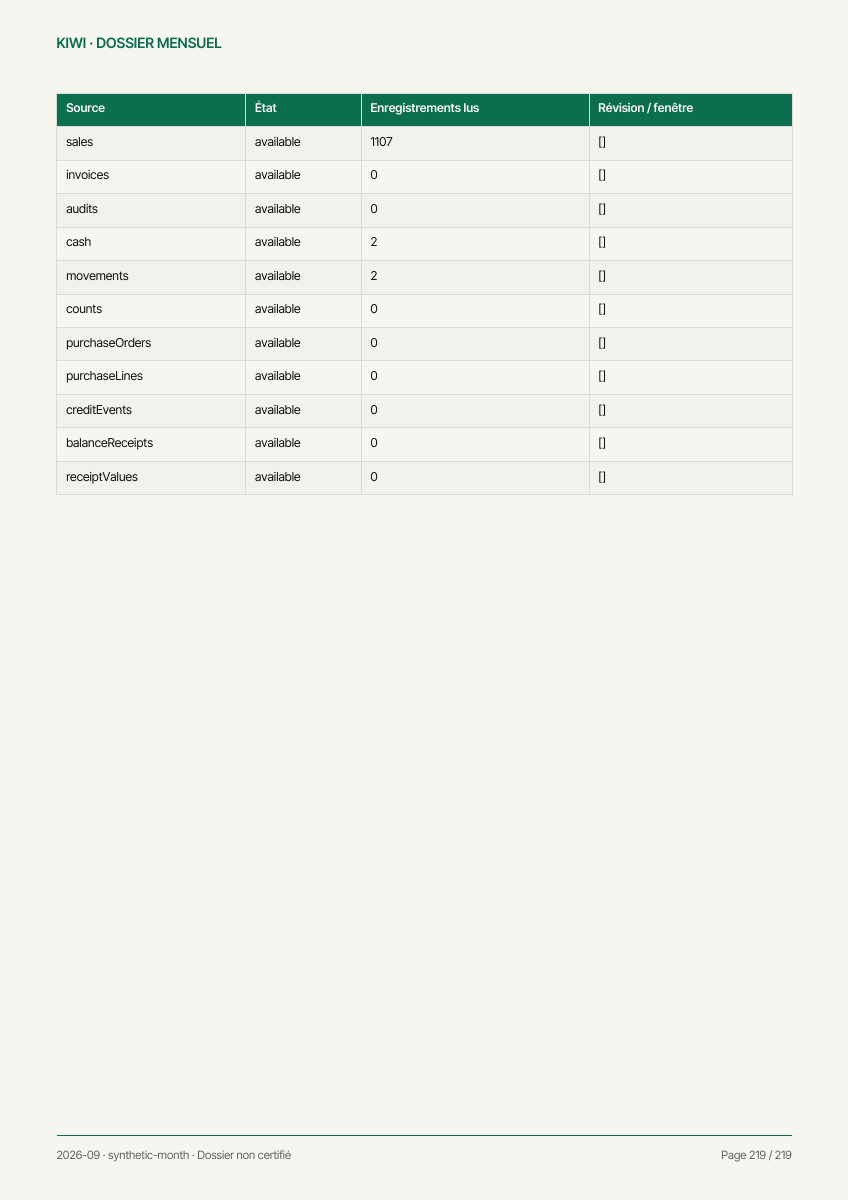
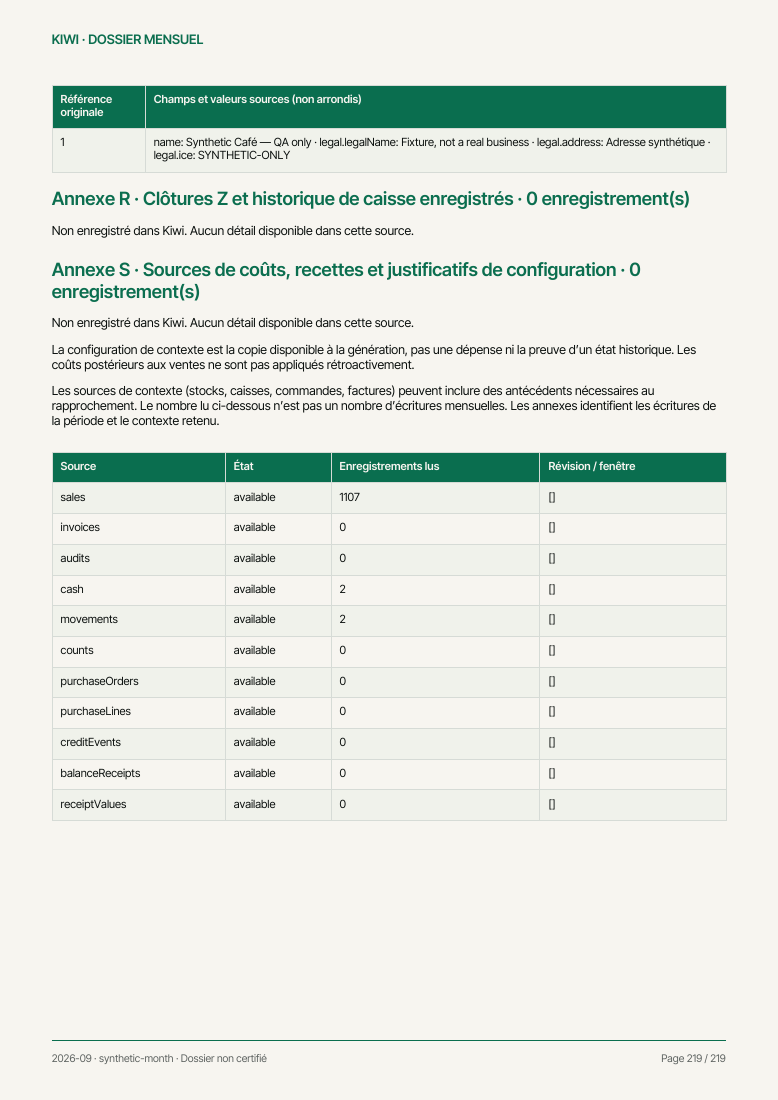
reports · reconcile equal payment shares and supporting cost references
Validated with 51 engine, 22 read-only API and 1166 real-browser/PDF controls. Full-project gate and production validation remain pending.

diff --git a/assets/month-report.js b/assets/month-report.js
@@ -35,6 +35,13 @@
     sales.filter(function(s){return s.voided&&s.void_ts>=data.to;}).forEach(function(s){warn('late-void',s.id,'Annulation enregistrée après le mois : statut à la date de génération, rapprochement requis avec le mois de l’annulation.');});
     var settlements=new Map();sales.forEach(function(s){if(s.voided||s.split_flow_id)return;var key=window.KiwiDayReport?.settlementKey?.(Object.assign({},s,{amount:s.cents==null?null:s.cents/100}));if(key&&settlements.has(key)){s.duplicateOf=settlements.get(key);warn('duplicate-settlement',s.id,'Même règlement que '+s.duplicateOf+' selon KiwiDayReport; original conservé en annexe, exclu des totaux.');}else if(key)settlements.set(key,s.id);});
     var active=sales.filter(function(s){return !s.voided&&!s.duplicateOf;}), positive=active.filter(function(s){return s.cents!=null&&s.cents>=0;}), refunds=active.filter(function(s){return s.cents!=null&&s.cents<0;});
+    // Equal restaurant parts retain the WHOLE physical quantity with a 1/n
+    // price in each original payment (kiwi-caisse / kiwi-serveur). Never
+    // multiply units or COGS by the number of tenders. Only the explicit
+    // producer marker plus a complete, identified flow proves the quantity.
+    var equalFlows=new Map();active.forEach(function(s){if(s.split_flow_id&&s.cents>=0){if(!equalFlows.has(s.split_flow_id))equalFlows.set(s.split_flow_id,[]);equalFlows.get(s.split_flow_id).push(s);}});
+    function equalShare(s,l){var m=String(l.name||l.n||'').match(/ · 1\/([2-9]|[1-4][0-9]|50)$/);return m&&(s.split_flow_id||/-split-/.test(String(s.id))||s.split)?+m[1]:null;}
+    function completeShare(s,n){var flow=equalFlows.get(s.split_flow_id)||[],shape=function(v){return JSON.stringify(v.lines.map(function(l){return [l.itemId||l.i||'',l.name||l.n,l.qty??l.q??l.quantity,l.cat||l.c||''];}));};return flow.length===n&&flow.every(function(v){return shape(v)===shape(s)&&v.lines.every(function(l){return equalShare(v,l)===n;});});}
     if(data.undated?.length)warn('undated-records',String(data.undated.length),'Écritures sans date attribuable conservées en annexe, exclues des totaux du mois.');
     var closureDays=object(docs.dayreports).days||{}, allDays=[];
     for(var d=data.month+'-01';d.slice(0,7)===data.month;d=new Date(Date.parse(d+'T00:00:00Z')+86400000).toISOString().slice(0,10))allDays.push(d);
@@ -52,6 +59,7 @@
     if(data.asOf<data.to)warn('partial-month',data.month,'Mois en cours : dossier arrêté à la date de génération.');
     var periods=list(object(docs.monthreport).taxPeriods);
     function taxFor(s) {
+      var receipt=receiptMap.get(String(s.id));if(receipt&&N(receipt.consigned_cents)>0&&N(receipt.gross_ticket_cents)!==s.cents)return null; // merchant receipts are not the client's full taxable basket
       var snap=object((invoiceMap.get(String(s.id))||invoiceMap.get(refundOrigin.get(String(s.id)))||{}).snapshot),t=object(snap.totals), rate=N(s.taxRate!=null?s.taxRate:s.vatRate);
       var ht=N(s.htCents),vat=N(s.vatCents);
       if(ht!=null&&vat!=null&&ht+vat===s.cents)return{ht:ht,vat:vat,rate:rate,basis:'snapshot de vente'};
@@ -78,8 +86,9 @@
       else{add(methods,s.method,s.cents);if(s.method==='split'||parts.length)warn('payment-split',s.id,'Ventilation des encaissements fractionnés absente ou non rapprochée; crédit et paiements différés ne sont pas du numéraire.');}
       if(!s.lines.length){if(s.cents<0)warn('refund-items',s.id,'Articles effectivement remboursés non enregistrés : ne pas supposer un retour physique du panier entier.');warn('missing-basket',s.id,'Détail produit non enregistré dans Kiwi.');return;}
       var totals=s.lines.map(function(l){return N(l.total!=null?l.total:l.t);}), basket=totals.reduce(function(a,v){return a+Math.abs(v||0);},0), allocated=allocate(s.cents,totals.map(function(v){return v==null?null:Math.abs(v);})), direction=s.cents<0?-1:1;
-      s.lines.forEach(function(l,i){var qty=N(l.qty!=null?l.qty:(l.q!=null?l.q:l.quantity)),id=String(l.itemId||l.item_id||l.i||l.id||l.name||l.n||''), name=String(l.name||l.n||id||'Non enregistré dans Kiwi'),cat=String(l.cat||l.category||l.c||'Non enregistré dans Kiwi');
+      s.lines.forEach(function(l,i){var share=equalShare(s,l),shareComplete=!share||completeShare(s,share),qty=N(l.qty!=null?l.qty:(l.q!=null?l.q:l.quantity)),name=String(l.name||l.n||l.itemId||l.i||'Non enregistré dans Kiwi');if(share)name=name.replace(/ · 1\/[0-9]+$/,'');var id=String(l.itemId||l.item_id||l.i||l.id||name),cat=String(l.cat||l.category||l.c||'Non enregistré dans Kiwi');
         var p=products.get(id+'|'+cat)||{id:id,name:name,category:cat,qty:0,qtyKnown:true,revenueCents:0,revenueKnown:true,costMad:0,costKnown:true};
+        if(share){qty=qty==null?null:qty/share;if(!shareComplete){p.qtyKnown=false;warn('split-quantity-incomplete',s.split_flow_id||s.id,'Parts égales sans flux intégral rapproché dans le mois : quantité physique et coût incomplets, sans doubler le panier.');}}
         if(qty==null){p.qtyKnown=false;warn('missing-quantity',s.id+' / '+name,'Quantité non enregistrée dans Kiwi.');}else p.qty+=direction*Math.abs(qty);
         var revenue=allocated?allocated[i]:(s.cents===0&&totals.every(function(t){return t!=null;})?0:null);
         if(revenue==null){p.revenueKnown=false;warn('line-reconciliation',s.id,'Impossible de ventiler le ticket sans montant de ligne.');}else{p.revenueCents+=revenue;add(categories,cat,revenue);}
@@ -87,7 +96,7 @@
         var costEntry=object(object(docs.costs).items)[id];
         if(unit==null&&costEntry&&N(costEntry.at)!=null&&+costEntry.at<=s.ts){unit=N(costEntry.cost);src='coût enregistré avant la vente, non certifié';}
         lineCount++;
-        if(unit!=null&&qty!=null){var value=unit*Math.abs(qty)*direction;p.costMad+=value;theoreticalCost+=value;costedLines++;costedRevenue+=Math.abs(revenue||0);}
+        if(unit!=null&&qty!=null&&shareComplete){var value=unit*Math.abs(qty)*direction;p.costMad+=value;theoreticalCost+=value;costedLines++;costedRevenue+=Math.abs(revenue||0);}
         else{p.costKnown=false;missingCosts.push({sale:s.id,item:id,name:name,recipe:l.recipeId||l.recipe||'',qty:qty});}
         products.set(id+'|'+cat,p);l.monthlyCostSource=unit==null?null:src;
       });
@@ -150,7 +159,7 @@
     var net=knownSum(active,function(s){return s.cents;}),discount=knownSum(positive,function(s){return N(s.discount_amount_cents!=null?s.discount_amount_cents:s.discountAmountCents);});
     var gross=knownSum(positive,function(s){var g=N(s.gross_amount_cents!=null?s.gross_amount_cents:s.grossAmountCents);if(g!=null)return g;var d=N(s.discount_amount_cents);return d==null?null:s.cents+d;});
     var assignedRevenue=Array.from(products.values()).reduce(function(a,p){return a+p.revenueCents;},0);if(net!=null&&assignedRevenue!==net)warn('product-reconciliation',data.month,'Recettes non attribuables aux lignes produit : '+((net-assignedRevenue)/100)+' MAD; ne pas assimiler la ventilation documentée à un total net complet.');
-    var theoreticalComplete=active.length>0&&lineCount>0&&costedLines===lineCount&&active.every(function(s){return s.lines.length;});
+    var theoreticalComplete=active.length>0&&lineCount>0&&costedLines===lineCount&&active.every(function(s){return s.lines.length&&s.cents!=null;})&&!list(rows.receiptValues).some(function(v){return saleIds.has(String(v.sale_id))&&N(v.consigned_cents)>0;});
     var cogs=theoreticalComplete?theoreticalCost:null,ht=taxed===active.length&&active.length?htTotal:null,margin=ht!=null&&cogs!=null?ht/100-cogs:null;
     var summary={grossCents:gross,netCents:net,sales:active.length?positive.length:null,averageCents:positive.length?knownSum(positive,function(s){return s.cents;})/positive.length:null,refundCents:refunds.length? -knownSum(refunds,function(s){return s.cents;}):(active.length?0:null),discountCents:discount,complimentaryCents:knownSum(positive.filter(function(s){return s.method==='complimentary';}),function(s){return N(s.gross_amount_cents);}),complimentaryCount:positive.filter(function(s){return s.method==='complimentary';}).length,cancellationCount:unique(audits.filter(function(a){return a.action==='void';}).concat(sales.filter(function(s){return s.voided;})),function(a){return a.sale_id||a.id;}).length,purchasesMad:receipts.some(function(r){return !purchaseInvoices.some(function(v){return v.receiptId===r.id;});})&&purchaseInvoices.some(function(r){return !r.receiptId;})?null:knownSum(purchaseRows.filter(function(p){return p.included;}),function(p){return p.amount;}),expensesMad:expensesSum,cogsMad:cogs,knownProductCostMad:lineCount?theoreticalCost:null,grossMarginMad:margin,estimatedManagementMad:margin!=null&&expensesSum!=null?margin-expensesSum:null,htCents:ht,vatCents:taxed===active.length&&active.length?vatTotal:null,actualFoodCostMad:actualCost,theoreticalFoodCostMad:cogs};
     var coverage={sales:{percent:pct(daily.filter(function(d){return d.documented;}).length,allDays.length),basis:'Journées avec écritures originales ou clôture / journées du mois, pas toutes les ventes hors Kiwi'},productCosts:{percent:pct(costedLines,lineCount),basis:'Lignes disposant d’un coût antérieur ou figé / lignes produit enregistrées'},expenses:{percent:pct(expenseRows.filter(function(r){return r.amount!=null&&r.reference;}).length,expenseRows.length),basis:'Dépenses enregistrées avec montant et référence / dépenses enregistrées, pas charges externes inconnues'},purchases:{percent:pct(purchaseRows.filter(function(r){return r.amount!=null&&r.reference;}).length,purchaseRows.length),basis:'Documents d’achat avec montant et justificatif / documents d’achat enregistrés'},inventory:{percent:pct(inventory.filter(function(b){return b.openingValue!=null&&b.closingValue!=null;}).length,inventory.length),basis:'Positions de stock avec solde et valorisation documentés / positions tracées'},tax:{percent:pct(taxed,active.length),basis:'Tickets avec ventilation TVA historique / tickets actifs enregistrés'}};

diff --git a/assets/month-report-pdf.js b/assets/month-report-pdf.js
@@ -22,7 +22,7 @@
     function ensure(h){if(y+h>277)next();}
     function font(text,bold){doc.setFont(/[\u0600-\u06ff\u0750-\u077f\u08a0-\u08ff]/.test(String(text))?'PlexArabic':'InterTight',bold&&!/[\u0600-\u06ff]/.test(String(text))?'bold':'normal');}
     function paragraph(text,size){size=size||9.5;font(text,false);doc.setFontSize(size);doc.setTextColor.apply(doc,token.ink);var lines=doc.splitTextToSize(String(text),182),lineHeight=size*.43;lines.forEach(function(line){ensure(lineHeight+2);font(line,false);doc.text(line,14,y);y+=lineHeight;});y+=3;}
-    function heading(title){ensure(18);y+=4;font(title,true);doc.setFontSize(14);doc.setTextColor.apply(doc,token.atlas);doc.text(title,14,y);y+=8;}
+    function heading(title){font(title,true);doc.setFontSize(14);var lines=doc.splitTextToSize(String(title),182);ensure(lines.length*6+12);y+=4;lines.forEach(function(line){font(line,true);doc.setFontSize(14);doc.setTextColor.apply(doc,token.atlas);doc.text(line,14,y);y+=6;});y+=2;}
     function table(headers,body){if(!body.length){paragraph('Non enregistré dans Kiwi. Aucun détail disponible dans cette source.');return;}ensure(16);doc.autoTable({startY:y,head:[headers],body:body.map(function(row){return row.map(safe);}),margin:{left:14,right:14,top:23,bottom:21},showHead:'everyPage',rowPageBreak:'auto',styles:{font:'InterTight',fontStyle:'normal',fontSize:8.6,cellPadding:2.4,overflow:'linebreak',textColor:token.ink,fillColor:token.paper,lineColor:[215,219,214],lineWidth:.1},headStyles:{font:'InterTight',fontStyle:'bold',fillColor:token.atlas,textColor:token.paper,fontSize:8.5},alternateRowStyles:{fillColor:[239,241,235]},didParseCell:function(h){var text=h.cell.text.join(' ');if(/[\u0600-\u06ff]/.test(text)){h.cell.styles.font='PlexArabic';h.cell.styles.fontStyle='normal';}},willDrawPage:function(){pageBackground();}});y=doc.lastAutoTable.finalY+5;}
     function date(ts){if(ts==null)return safe(null);if(r.clock&&r.clock[ts])return r.clock[ts].local;return new Intl.DateTimeFormat('fr-FR',{timeZone:r.zone,day:'2-digit',month:'2-digit',year:'numeric',hour:'2-digit',minute:'2-digit',hourCycle:'h23'}).format(ts);}
     function original(label,records){heading(label+' · '+records.length+' enregistrement(s)');table(['Référence originale','Champs et valeurs sources (non arrondis)'],records.map(function(row,i){var cells=[];function flatten(v,key){if(v&&typeof v==='object'){var keys=Object.keys(v);if(!keys.length)cells.push(key+': '+(Array.isArray(v)?'[]':'{}'));keys.forEach(function(k){flatten(v[k],key?key+'.'+k:k);});}else cells.push(key+': '+(v==null?'Non enregistré dans Kiwi':String(v)));}flatten(row,'');return[safe(row.id||row.number||row.ref||row.sale_id||row._rowid||i+1),cells.join(' · ')];}));}
@@ -71,8 +71,10 @@
     if(r.sourceData.pending&&r.sourceData.pending.length)original('Annexe N · Écritures locales non rapprochées, exclues des totaux serveur',r.sourceData.pending);
     original('Annexe O · Montants des tickets clients et consignation',r.receiptValues);
     original('Annexe P · Réservations et données de paie enregistrées',r.supportingRecords);
-    original('Annexe R · Clôtures Z et historique de caisse enregistrés',r.zReports);
     original('Annexe Q · Identité et documents de configuration disponibles',[r.sourceData.docs.business||{}]);
+    original('Annexe R · Clôtures Z et historique de caisse enregistrés',r.zReports);
+    original('Annexe S · Sources de coûts, recettes et justificatifs de configuration',['costs','recipes','receipt','suppliers'].filter(function(k){return r.sourceData.docs[k];}).map(function(k){return {source:k,revision:r.sourceData.docRevisions&&r.sourceData.docRevisions[k],configuration:r.sourceData.docs[k]};}));
+    paragraph('La configuration de contexte est la copie disponible à la génération, pas une dépense ni la preuve d’un état historique. Les coûts postérieurs aux ventes ne sont pas appliqués rétroactivement.');
     paragraph('Les sources de contexte (stocks, caisses, commandes, factures) peuvent inclure des antécédents nécessaires au rapprochement. Le nombre lu ci-dessous n’est pas un nombre d’écritures mensuelles. Les annexes identifient les écritures de la période et le contexte retenu.');
     table(['Source','État','Enregistrements lus','Révision / fenêtre'],Object.keys(r.sourceData.sources||{}).map(function(k){var m=r.sourceData.sources[k];return[k,m.status,safe(m.count),JSON.stringify(m.missingColumns||[])];}));
     var total=doc.getNumberOfPages();for(var page=1;page<=total;page++){doc.setPage(page);doc.setDrawColor.apply(doc,token.atlas);doc.line(14,281,196,281);doc.setFont('InterTight','normal');doc.setFontSize(8);doc.setTextColor.apply(doc,token.muted);doc.text(r.month+' · '+r.merchant+' · Dossier non certifié',14,287);doc.text('Page '+page+' / '+total,196,287,{align:'right'});}

diff --git a/dashboard.html b/dashboard.html
@@ -6384,8 +6384,8 @@
      Après pages-pro.js, dont il emprunte la coquille Kiwi.appPage. -->
 <script src="assets/day-report.js?v=19" defer fetchpriority="low"></script>
 <script src="assets/z-reconciliation.js?v=25" defer fetchpriority="low"></script>
-<script src="assets/month-report.js?v=9" defer fetchpriority="low"></script>
-<script src="assets/month-report-pdf.js?v=5" defer fetchpriority="low"></script>
+<script src="assets/month-report.js?v=10" defer fetchpriority="low"></script>
+<script src="assets/month-report-pdf.js?v=6" defer fetchpriority="low"></script>
 <script src="assets/month-report-ui.js?v=3" defer fetchpriority="low"></script>
 <script src="assets/day-report-export.js?v=10" defer fetchpriority="low"></script>
 <script src="assets/day-report-dash.js?v=22" defer fetchpriority="low"></script>

diff --git a/kiwi-sw.js b/kiwi-sw.js
@@ -175,8 +175,8 @@ var SHELL = [
   '/assets/report.js?v=5',
   '/assets/day-report-dash.js?v=22',
   '/assets/day-report-export.js?v=10',
-  '/assets/month-report.js?v=9',
-  '/assets/month-report-pdf.js?v=5',
+  '/assets/month-report.js?v=10',
+  '/assets/month-report-pdf.js?v=6',
   '/assets/month-report-ui.js?v=3',
   /* Les horaires d'ouverture. Dans la coquille hors-ligne parce que la caisse
      s'en sert au moment le plus hors-ligne qui soit : l'ouverture du service.

diff --git a/docs/audits/2026-10-04-month-end-dossier.md b/docs/audits/2026-10-04-month-end-dossier.md
@@ -8,11 +8,11 @@ The original daily PDF/CSV composer and four presets remain unchanged. There is 
 
 ## Source and calculation boundaries
 
-- Original `sales` integer centimes, `sale_audit`, immutable `sale_invoices` and `sale_receipts`: refunds, adjustments, original references, customer/consignment differences. KiwiDayReport's settlement fingerprint excludes identified duplicate settlements from sums while retaining both originals in annexes. Equal split payments are retained.
+- Original `sales` integer centimes, `sale_audit`, immutable `sale_invoices` and `sale_receipts`: refunds, adjustments, original references, customer/consignment differences. KiwiDayReport's settlement fingerprint excludes identified duplicate settlements from sums while retaining both originals in annexes. Equal split payments are retained. Explicit `1/n` equal-part baskets count quantities/costs once only for a fully identified, complete flow; partial flows leave physical quantities/costs incomplete. Consignment ownership differences prevent an unsupported merchant VAT/COGS/result calculation.
 - `cash_session_events` plus available legacy KiwiDayReport drawer archives: opening/movements/counts/expectations/variances. Monthly Z archives are supporting reconciliation records, never inputs to summed monthly revenue.
 - `store_docs` procurement/suppliers/expenses plus original server purchase orders/lines and dated purchasing inventory receipts/returns. Commitments and current cumulative received quantities are not incorrectly treated as monthly purchases. Explicitly linked receipt/invoice pairs are not counted twice. Ambiguous unlinked documents make the purchase total incomplete.
 - Original `inventory_movements`, `inventory_counts` and frozen sale-line costs: four-decimal stock cost rates, signed movements, baseline-dependent indicative stock valuation, inventory discrepancies and theoretical/actual cost perimeters. No certified FIFO/CUMP reconstruction, retroactive use of later current costs, guessed refund item quantities or invented foreign-currency conversion.
-- `store_credit_events`, `retail_balance_receipts`, recorded reservations/payroll, current legal identity, relevant dated tax configuration and unassignable/unsynced references are retained in supporting annexes. Payroll estimates are not automatically turned into expenses.
+- `store_credit_events`, `retail_balance_receipts`, recorded reservations/payroll, current legal identity, dated supporting cost/recipe/receipt/supplier configuration, relevant dated tax configuration and unassignable/unsynced references are retained in supporting annexes. Payroll estimates are not automatically turned into expenses.
 
 Generation reads owner/operator-authorized, merchant-scoped sources through an allowlisted GET endpoint. It paginates without a total-row cap. Row fences, a full source reread and final document revisions detect changing input; generation fails/retries instead of silently omitting pages or falling back to local data for a real establishment. These checks are not represented as a cross-request database transaction snapshot. Demo/local exports explicitly disclaim server completeness.
 
@@ -22,7 +22,7 @@ Every coverage percentage states its denominator. Sales coverage means recorded 
 
 ## Verification
 
-- Pure engine: **48 controls**, including centime allocation, mixed dated VAT, frozen zero VAT, original refunds/voids, duplicate settlements, four-decimal costs, missing data, legacy cash archives, invoice gaps and Morocco/Ramadan business-day boundaries.
+- Pure engine: **51 controls**, including centime allocation, mixed dated VAT, frozen zero VAT, original refunds/voids, duplicate settlements, four-decimal costs, missing data, legacy cash archives, invoice gaps and Morocco/Ramadan business-day boundaries.
 - Actual signed-session API with an in-memory SQLite database: **22 controls**, unauthorized/till/cross-establishment denial, read-only queries, all 1,107 records across three pages, absent ledgers and unassignable timestamps.
 - Real Chrome rendering and actual downloaded PDF: **1,166 controls**; French/English/Arabic at 360, 390, 768 and 1,440 px; daily composer regression; all source pages reread; changed-row failure; source failure; merchant-change/cancel guard after rendering.
 - Downloaded synthetic dossier: **219 pages**, **1,107 original sales**, every original sale ID found in extracted text. Required notice, A4 pagination, running/table headers, final page number, known/missing values and canonical cutoff dates verified. Cover, interior Arabic text and last-page render inspected. Fixtures are synthetic only; no production financial records, owner credentials or PINs are committed.
